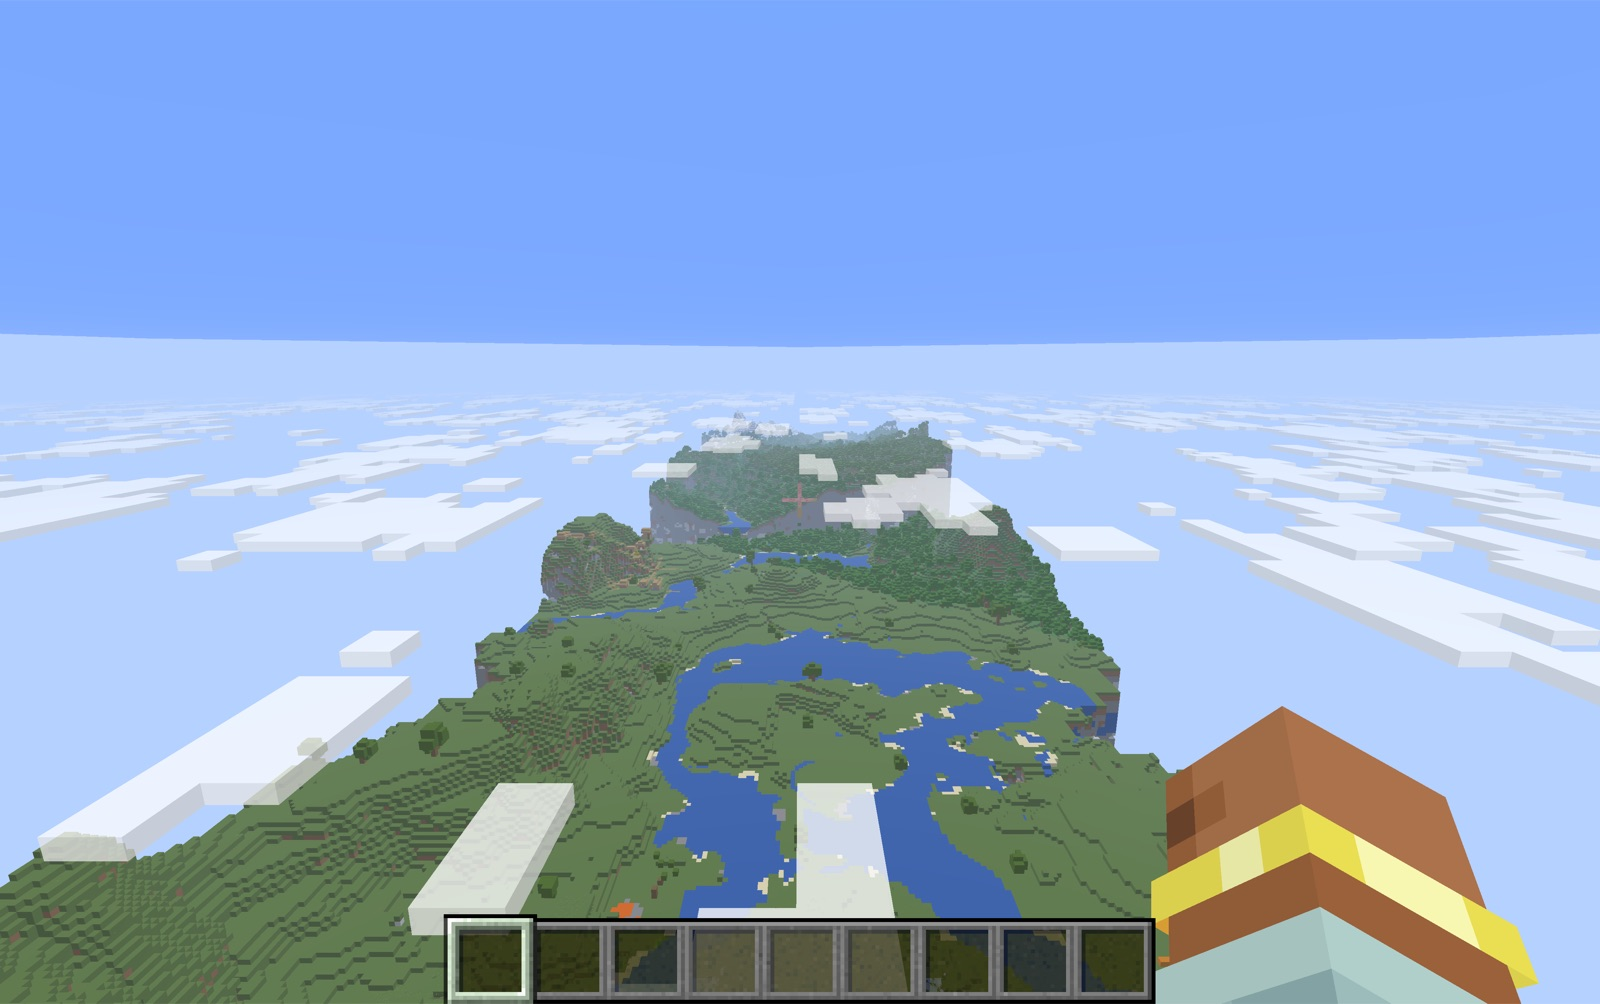
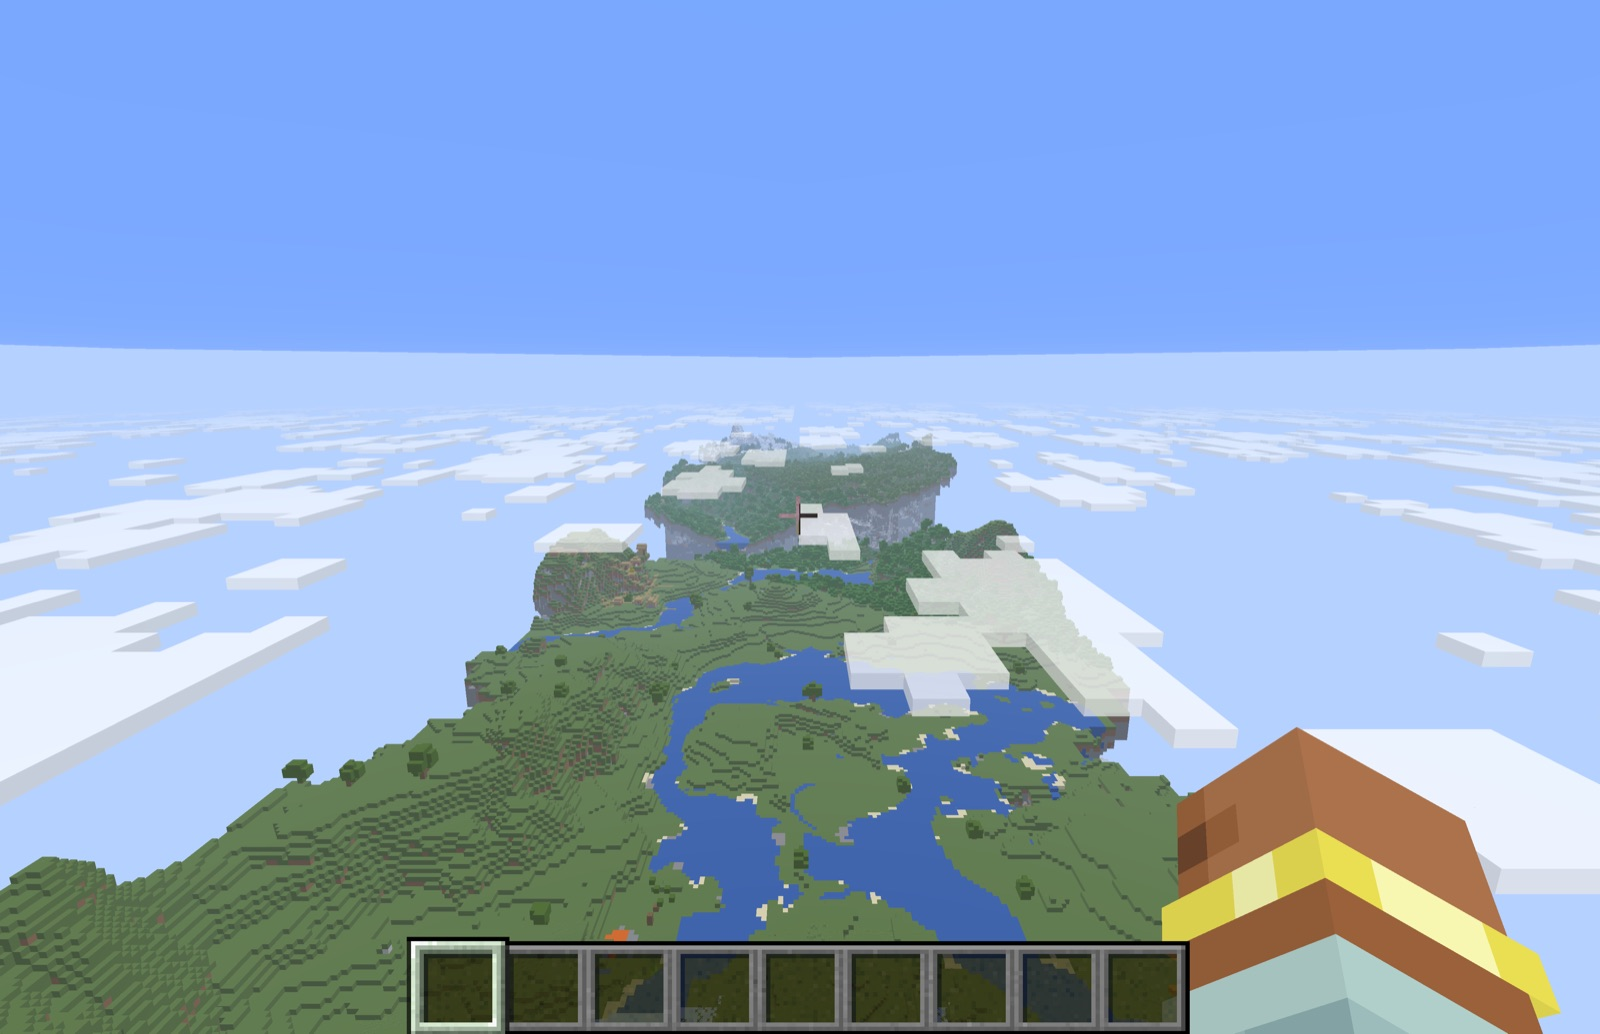
LOD: short skirts instead of cross-sections at the edges of missing chunks
Inside a node, side faces toward a column with no data (unexplored or
ungenerated chunks) are kept only within 8 voxels of the terrain top, and
the deep-cave fill ignores such columns so caves beside them are filled.
Node borders keep full-depth skirts (they hide cracks between LOD levels).

The saved multiplayer strip rebuilds with 24% fewer quads (442,407 ->
337,911). The fully generated 4 km world: 0.4% fewer, and region files,
live ingest and the reopened store still match exactly (4,513,827). The
8-view LOD tour is unchanged.

diff --git a/Sources/MetalMCNative/LodBuild.swift b/Sources/MetalMCNative/LodBuild.swift
@@ -45,28 +45,36 @@ struct LodGrid {
         if deepRadius >= 0 {
             let stone = Mat.stone.rawValue
             v.withUnsafeMutableBufferPointer { g in
-                // Height from which each column is open to the sky (one above its highest non-water solid).
+                // Height from which each column is open to the sky (one above its highest non-water solid), or
+                // -1 for a column with no data at all (a chunk that was never generated or seen): those are
+                // ignored, so terrain next to missing chunks still gets its deep caves filled.
                 var open = [Int32](repeating: 0, count: n * n)
                 for i in 0..<(n * n) {
                     var y = h - 1
-                    while y >= 0 { let m = g[y * n * n + i]; if m != 0 && !lodIsWater(m) { break }; y -= 1 }
-                    open[i] = Int32(y + 1)
+                    var any = false
+                    while y >= 0 {
+                        let m = g[y * n * n + i]
+                        if m != 0 { any = true; if !lodIsWater(m) { break } }
+                        y -= 1
+                    }
+                    open[i] = any ? Int32(y + 1) : -1
                 }
                 // Lowest open height within the square neighborhood (separable min filter).
                 var rows = open
                 for z in 0..<n {
                     for x in 0..<n {
                         var m = Int32.max
-                        for k in max(0, x - deepRadius)...min(n - 1, x + deepRadius) { m = min(m, open[z * n + k]) }
+                        for k in max(0, x - deepRadius)...min(n - 1, x + deepRadius) where open[z * n + k] >= 0 { m = min(m, open[z * n + k]) }
                         rows[z * n + x] = m
                     }
                 }
                 for z in 0..<n {
                     for x in 0..<n {
+                        let i = z * n + x
+                        if open[i] < 0 { continue }
                         var m = Int32.max
                         for k in max(0, z - deepRadius)...min(n - 1, z + deepRadius) { m = min(m, rows[k * n + x]) }
                         let limit = Int(m) - deepDepth
-                        let i = z * n + x
                         var y = 0
                         while y < limit {
                             let c = g[y * n * n + i]
@@ -200,6 +208,12 @@ enum LodBuild {
         var mask = [UInt8](repeating: 0, count: n * max(n, h))
 
         grid.v.withUnsafeBufferPointer { g in
+            // Highest non-air voxel per column, -1 for a column with no data (a missing chunk). Side faces
+            // toward a missing column are kept only near the top, a short skirt instead of a cross-section of
+            // the terrain down to the world bottom at the edge of explored or generated terrain.
+            var top = [Int](repeating: -1, count: n * n)
+            for y in 0..<h { for i in 0..<(n * n) where g[y * n * n + i] != 0 { top[i] = y } }
+            let edgeSkirt = 8
             @inline(__always) func at(_ x: Int, _ y: Int, _ z: Int) -> UInt8 {
                 if y < 0 { return Mat.stone.rawValue }
                 if x < 0 || z < 0 || x >= n || z >= n || y >= h { return 0 }
@@ -234,6 +248,10 @@ enum LodBuild {
                                 let k = kinds[Int(m)]
                                 if k == waterK { if nk == airK { f = m } }
                                 else if nk == airK { f = m }   // LOD water is opaque, so faces under water are hidden
+                                if f != 0 && axis != 1 {
+                                    let nx = x + sx, nz = z + sz
+                                    if nx >= 0 && nz >= 0 && nx < n && nz < n && top[nz * n + nx] < 0 && y < top[z * n + x] - edgeSkirt { f = 0 }
+                                }
                             }
                             mask[vv * du + uu] = f
                             if f != 0 { anyFace = true }

diff --git a/docs/lod-design.md b/docs/lod-design.md
@@ -65,6 +65,6 @@ Per-frame counters from `-PbenchTrace=1` runs: `per_frame_lod_draws`, `per_frame
 - **Occlusion culling** matters most at ground level, where hills hide most far terrain. On an 8 km LOD at ground level it cut quads per frame from 579 K to 170 K and draws from 430 to 79. That took the LOD from 337 to 362 fps, against 382 with no LOD at all. From 150 blocks up, only about a quarter of the LOD is hidden. The test costs about as much as it saves there (318–325 fps with it, 320 without). Drawing every box face instead of only camera-facing ones doubled the test's cost and made that view 4% slower.
 
 ## Known gaps
-- **Edges of explored areas.** Where the LOD has no data (unexplored chunks on a server, or ungenerated ones), neighboring terrain shows its cross-section down to the world bottom, like a floating slab. Voxy looks the same. Faces toward missing chunks could be dropped below the surface.
+- **Edges of explored areas at node borders.** Inside a node, side faces toward a column with no data (an unexplored or ungenerated chunk) are kept only within 8 voxels of the top of the terrain. That leaves a short skirt instead of the terrain's cross-section down to the world bottom. The deep-cave fill ignores such columns, so caves next to them are filled too. On the multiplayer test strip this removed 24% of quads (442,407 → 337,911). Node borders keep full-depth skirts, since they hide cracks between LOD levels where a cliff meets the border. Where explored terrain ends exactly at a node border, the cross-section still shows.
 - **Edits while a chunk stays loaded** reach the LOD when the chunk unloads (or when the save changes, in single-player), not immediately. They're mostly inside vanilla's range anyway.
 - **Screen-size selection.** Levels switch by distance: a node splits when the camera is closer than its size. That gives voxels of about 4–8 px at 4K. Voxy switches by projected size, 64 px per 32-voxel section. That's finer than ours, so ours already trades detail for speed.

diff --git a/results/lod-v1/README.md b/results/lod-v1/README.md
@@ -97,6 +97,7 @@ The LOD now also takes chunks as the client loads and unloads them. On a server 
 - **Real local server** (`./gradlew runServer`, offline mode, the same world; `-PmpServer=127.0.0.1:25565 -PbenchTour=mp`):
   - **Session 1:** the server teleports the player east to x = 1,500. The LOD takes in 2,712 chunks and builds 20 nodes (442,407 quads) from them, then shows the explored strip from above (`multiplayer-explored-strip.jpg`).
   - **Session 2** (`-PbenchTour=mp2`): after reconnecting, the LOD loaded 10 saved regions and was drawing 2 s after joining. It rebuilt to the same 442,407 quads without the player moving.
+- **Edges of explored areas (2026-09-26).** Side faces toward chunks with no data are now kept only near the top of the terrain, and the deep-cave fill ignores those columns. The saved multiplayer strip rebuilt from 442,407 to 337,911 quads (24% fewer). The fully generated 4 km world lost 0.4% of its quads: region files, live ingest and the reopened store all give 4,513,827, down from 4,531,403. The 8-view LOD tour is unchanged (animals only).
 - **Single-player is unchanged:** 318.1 fps at LOD 8192, the same as before. The showcase tour matches, apart from animals and 0.02% of pixels in the high views. Those come from near regions rebuilt with slightly newer live data (water flow).
 
 ## Build cost
